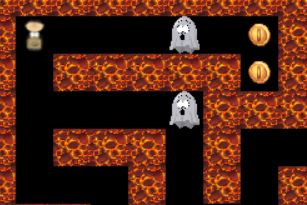
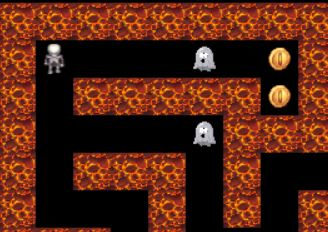
<phaser> Re-styled maze 1

diff --git a/resources/js/scenes/Maze1Scene.js b/resources/js/scenes/Maze1Scene.js
@@ -17,10 +17,10 @@ class Maze1Scene extends Phaser.Scene{
         this.wallet_text;
         this.kill_text;
 
-        this.load.image('background', 'resources/assets/beach.jpg');
-        this.load.spritesheet('boy','resources/assets/boy.png',{frameWidth: 35, frameHeight: 35});
+        this.load.image('background', 'resources/assets/easter.jpg');
+        this.load.spritesheet('bunny','resources/assets/bunny.png',{frameWidth: 18, frameHeight: 35});
         this.load.image('bush','resources/assets/parket_2.jpg'); 
-        this.load.image('monster','resources/assets/crab.png') 
+        this.load.spritesheet('eggs','resources/assets/eggs.png',{frameWidth: 23, frameHeight: 30});
         this.load.spritesheet('coin', 'resources/assets/tile001.png', {
             frameWidth: 50,
             frameHeight: 50
@@ -45,36 +45,36 @@ class Maze1Scene extends Phaser.Scene{
 
       this.anims.create({
         key: 'down',
-        frames: this.anims.generateFrameNumbers('boy', {
-          start: 1,
-          end: 4
+        frames: this.anims.generateFrameNumbers('bunny', {
+          start: 0,
+          end: 2
         }),
         frameRate: 15,
         repeat: -1
       });
       this.anims.create({
         key: 'left',
-        frames: this.anims.generateFrameNumbers('boy', {
-          start: 5,
-          end: 9
+        frames: this.anims.generateFrameNumbers('bunny', {
+          start: 3,
+          end: 5
         }),
         frameRate: 15,
         repeat: -1
       });
       this.anims.create({
         key: 'right',
-        frames: this.anims.generateFrameNumbers('boy', {
-          start: 10,
-          end: 14
+        frames: this.anims.generateFrameNumbers('bunny', {
+          start: 6,
+          end: 8
         }),
         frameRate: 15,
         repeat: -1
       });
       this.anims.create({
         key: 'up',
-        frames: this.anims.generateFrameNumbers('boy', {
-          start: 15,
-          end: 19
+        frames: this.anims.generateFrameNumbers('bunny', {
+          start: 9,
+          end: 11
         }),
         frameRate: 15,
         repeat: -1
@@ -82,22 +82,22 @@ class Maze1Scene extends Phaser.Scene{
 
 
         this.add.image(0,0,'background').setOrigin(0,0);
-        this.player = this.add.sprite(200,180,'boy',0);
-        this.player.setDisplaySize(32,32)
-        this.add.text(180,40,"OBJECTIVES",{ fontFamily: 'Arial', fontSize: '20px', fill: 'black',underline:true })
-        this.wallet_text = this.add.text(190, 90, this.coincount + "/5", { fontFamily: 'Arial', fontSize: '20px', fill: 'black' });
-        this.kill_text = this.add.text(300,90,this.monsterCount +"/4",{ fontFamily: 'Arial', fontSize: '20px', fill: 'black' })
-        this.add.text(400,90,"PRESS SPACE TO KILL CRABS",{ fontFamily: 'Arial', fontSize: '20px', fill: 'black' })
-        this.add.text(900,10,"ESC: Pause/Play",{ fontFamily: 'Arial', fontSize: '20px', fill: 'black' })
-        this.add.text(780,10,"R: Restart",{ fontFamily: 'Arial', fontSize: '20px', fill: 'black' })
-        this.monster = this.physics.add.sprite(270,100,'monster').setDisplaySize(30,30);
+        this.player = this.add.sprite(200,180,'bunny',0);
+        this.player.setDisplaySize(22,32)
+        this.add.text(180,40,"OBJECTIVES",{ fontFamily: 'Arial', fontSize: '20px', fill: 'white',underline:true })
+        this.wallet_text = this.add.text(190, 90, this.coincount + "/5", { fontFamily: 'Arial', fontSize: '20px', fill: 'white' });
+        this.kill_text = this.add.text(300,90,this.monsterCount +"/4",{ fontFamily: 'Arial', fontSize: '20px', fill: 'white' })
+        this.add.text(400,90,"PRESS SPACE TO HATCH THE EGGS",{ fontFamily: 'Arial', fontSize: '20px', fill: 'white' })
+        this.add.text(900,10,"ESC: Pause/Play",{ fontFamily: 'Arial', fontSize: '20px', fill: 'white' })
+        this.add.text(780,10,"R: Restart",{ fontFamily: 'Arial', fontSize: '20px', fill: 'white' })
+        this.monster = this.physics.add.sprite(270,100,'eggs',1).setDisplaySize(25,33);
         this.score_coin = this.physics.add.sprite(160, 100, 'coin');
         this.score_coin.play('round');
         this.add.text
 
         this.timerText = this.add.text(800, 90, 'Time: 15s', {
             fontSize: '25px',
-            color: 'black'
+            color: 'white'
           });
 
         // Start the timer
@@ -135,11 +135,12 @@ class Maze1Scene extends Phaser.Scene{
           ] 
 
           this.monster = [
-            this.physics.add.sprite(440,300,'monster').setDisplaySize(35,30),
-            this.physics.add.sprite(240,380,'monster').setDisplaySize(35,30),
-            this.physics.add.sprite(360,220,'monster').setDisplaySize(35,30),
-            this.physics.add.sprite(680,300,'monster').setDisplaySize(35,30),
-            this.physics.add.sprite(880,300,'monster').setDisplaySize(35,30),
+            this.physics.add.sprite(440,300,'eggs').setDisplaySize(23,30),
+            this.physics.add.sprite(240,380,'eggs').setDisplaySize(23,30),
+            this.physics.add.sprite(360,220,'eggs').setDisplaySize(23,30),
+            this.physics.add.sprite(680,300,'eggs').setDisplaySize(23,30),
+            this.physics.add.sprite(600,460,'eggs').setDisplaySize(23,30),
+            this.physics.add.sprite(880,300,'eggs').setDisplaySize(23,30),
           ]
 
           this.anims.create({
@@ -148,7 +149,16 @@ class Maze1Scene extends Phaser.Scene{
             frameRate: 10,
             repeat: -1
           });
-        
+          this.anims.create({
+            key: 'color',
+            frames: this.anims.generateFrameNumbers('eggs',{start:0, end: 5}),
+            frameRate: 1,
+            repeat: -1
+          });
+          
+          for(let i=0;i<this.monster.length;i++){
+            this.monster[i].play('color');
+          }
           for(let i=0;i<this.coin.length;i++){
             this.coin[i].play('round');
           }

diff --git a/resources/js/scenes/Maze3Scene.js b/resources/js/scenes/Maze3Scene.js
@@ -16,7 +16,7 @@ class Maze3Scene extends Phaser.Scene{
         this.kill_text;
         this.load.image('background3','resources/assets/halloween.png');
         this.load.image('monster3','resources/assets/ghost.png')
-        this.load.spritesheet('skeleton','resources/assets/skeleton.png',{frameWidth: 25, frameHeight: 25});
+        this.load.spritesheet('skeleton','resources/assets/skeleton1.png',{frameWidth: 17, frameHeight: 28});
         this.load.image('bush3','resources/assets/lava2.jpg');  
         this.load.spritesheet('coin', 'resources/assets/tile001.png', {
             frameWidth: 50,
@@ -39,19 +39,10 @@ class Maze3Scene extends Phaser.Scene{
         },this);
 
         this.anims.create({
-          key: 'right2',
+          key: 'down2',
           frames: this.anims.generateFrameNumbers('skeleton', {
-            start: 1,
-            end: 9
-          }),
-          frameRate: 15,
-          repeat: -1
-        });
-        this.anims.create({
-          key: 'up2',
-          frames: this.anims.generateFrameNumbers('skeleton', {
-            start: 10,
-            end: 17
+            start: 0,
+            end: 5
           }),
           frameRate: 15,
           repeat: -1
@@ -59,17 +50,26 @@ class Maze3Scene extends Phaser.Scene{
         this.anims.create({
           key: 'left2',
           frames: this.anims.generateFrameNumbers('skeleton', {
-            start: 18,
-            end: 26
+            start: 6,
+            end: 11
           }),
           frameRate: 15,
           repeat: -1
         });
         this.anims.create({
-          key: 'down2',
+          key: 'right2',
           frames: this.anims.generateFrameNumbers('skeleton', {
-            start: 27,
-            end: 35
+            start: 12,
+            end: 17
+          }),
+          frameRate: 15,
+          repeat: -1
+        });
+        this.anims.create({
+          key: 'up2',
+          frames: this.anims.generateFrameNumbers('skeleton', {
+            start: 18,
+            end: 23
           }),
           frameRate: 15,
           repeat: -1
@@ -79,8 +79,8 @@ class Maze3Scene extends Phaser.Scene{
         
         this.add.image(0,0,'background3').setOrigin(0,0);
         this.player = this.add.sprite(90,120,'skeleton',0);
-        this.player.setDisplaySize(29,29)
-        this.add.sprite(340,50,'skeleton',0).setDisplaySize(50,50);
+        this.player.setDisplaySize(17,26)
+        this.add.sprite(340,50,'skeleton',0).setDisplaySize(30,50);
         this.add.text(100,15,"OBJECTIVES",{ fontFamily: 'Arial', fontSize: '20px', fill: 'white',underline:true })
         this.add.text(400,40,"PRESS SPACE TO KILL GHOSTS",{ fontFamily: 'Arial', fontSize: '20px', fill: 'white' })
         this.wallet_text = this.add.text(80, 50, this.coincount+"/15", { fontFamily: 'Arial', fontSize: '20px', fill: 'white'});
